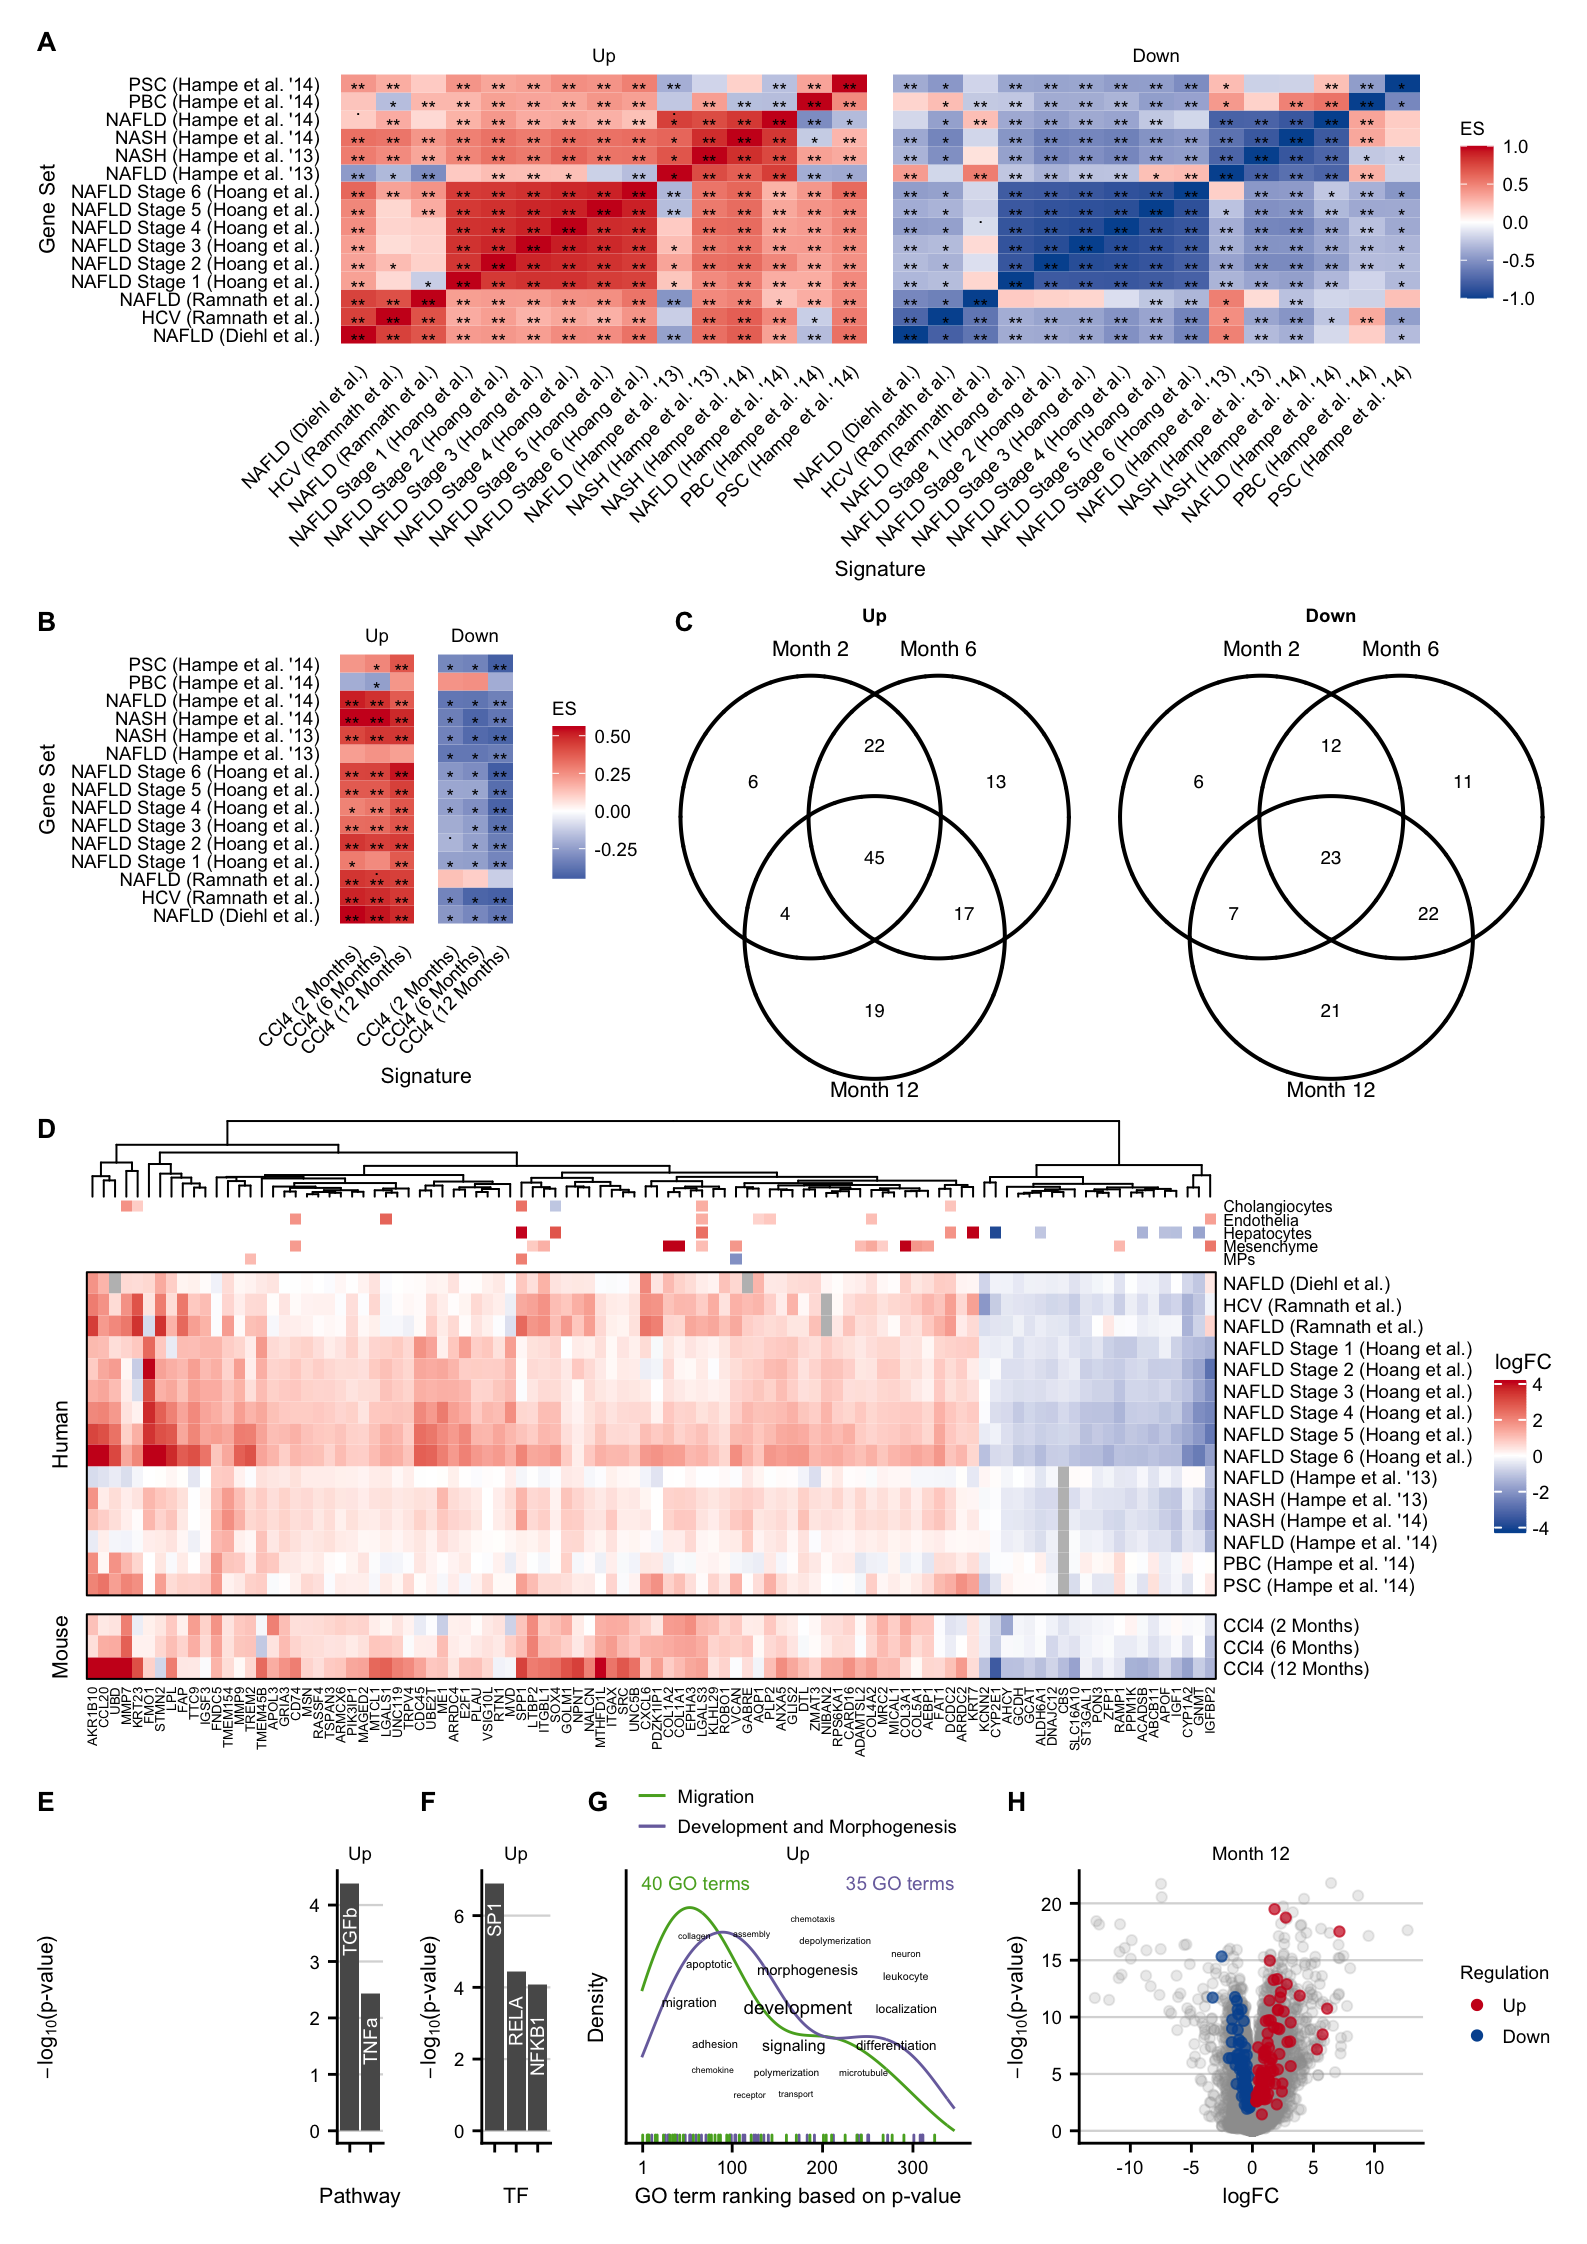
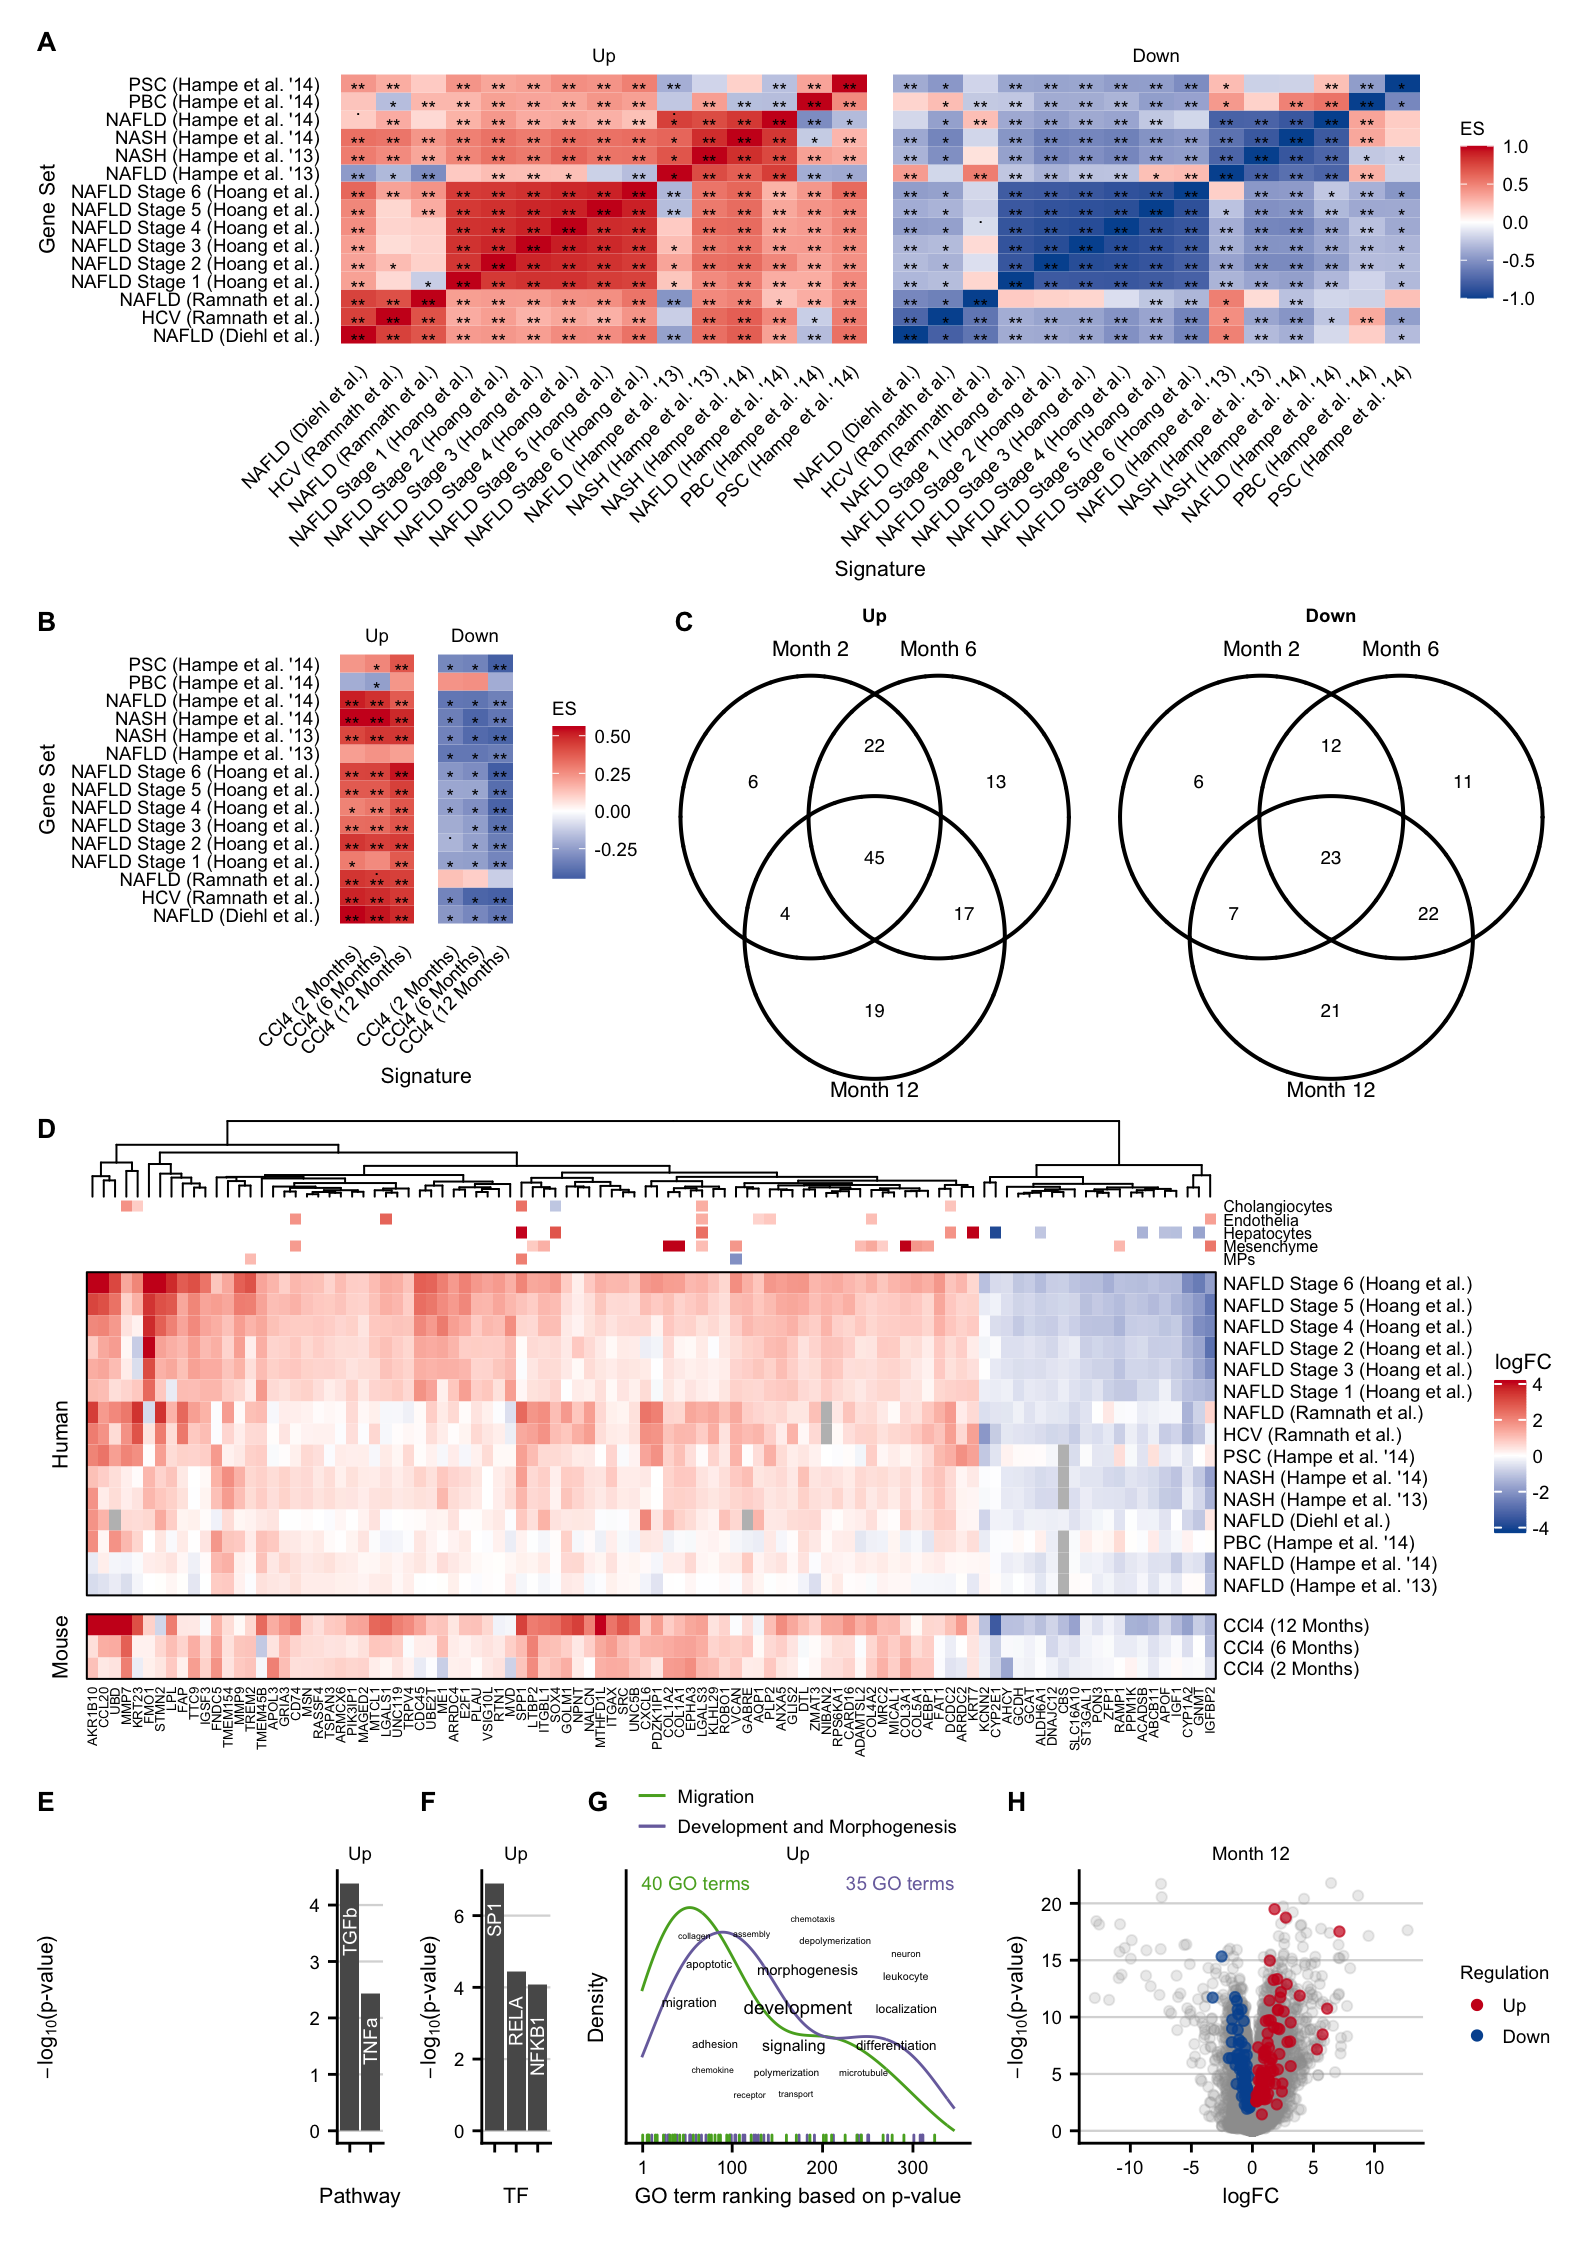
Build site.

Changed region(s): [[0.0309, 0.5615, 0.9263, 0.7487]]

diff --git a/docs/plot-mouse-vs-human.html b/docs/plot-mouse-vs-human.html
@@ -544,7 +544,7 @@ div.tocify {
 <div class="tab-content">
 <div id="summary" class="tab-pane fade in active">
 <p>
-<strong>Last updated:</strong> 2020-12-30
+<strong>Last updated:</strong> 2021-01-05
 </p>
 <p>
 <strong>Checks:</strong> <span class="glyphicon glyphicon-ok text-success" aria-hidden="true"></span> 7 <span class="glyphicon glyphicon-exclamation-sign text-danger" aria-hidden="true"></span> 0
@@ -635,16 +635,16 @@ This reproducible <a href="http://rmarkdown.rstudio.com">R Markdown</a> analysis
 <div class="panel panel-default">
 <div class="panel-heading">
 <p class="panel-title">
-<a data-toggle="collapse" data-parent="#workflowr-checks" href="#strongRepositoryversionstrongahrefhttpsgithubcomsaezlabmetalivertree26cc806777cddc295cc375b282b70905fde421e5targetblank26cc806a"> <span class="glyphicon glyphicon-ok text-success" aria-hidden="true"></span> <strong>Repository version:</strong> <a href="https://github.com/saezlab/meta-liver/tree/26cc806777cddc295cc375b282b70905fde421e5" target="_blank">26cc806</a> </a>
+<a data-toggle="collapse" data-parent="#workflowr-checks" href="#strongRepositoryversionstrongahrefhttpsgithubcomsaezlabmetalivertree1b1ab6ae04b8dd083362fd11be8236c9c0266c31targetblank1b1ab6aa"> <span class="glyphicon glyphicon-ok text-success" aria-hidden="true"></span> <strong>Repository version:</strong> <a href="https://github.com/saezlab/meta-liver/tree/1b1ab6ae04b8dd083362fd11be8236c9c0266c31" target="_blank">1b1ab6a</a> </a>
 </p>
 </div>
[2 lines of base64/hex data omitted]
 <div class="panel-body">
 <p>
 Great! You are using Git for version control. Tracking code development and connecting the code version to the results is critical for reproducibility.
 </p>
 <p>
-The results in this page were generated with repository version <a href="https://github.com/saezlab/meta-liver/tree/26cc806777cddc295cc375b282b70905fde421e5" target="_blank">26cc806</a>. See the <em>Past versions</em> tab to see a history of the changes made to the R Markdown and HTML files.
+The results in this page were generated with repository version <a href="https://github.com/saezlab/meta-liver/tree/1b1ab6ae04b8dd083362fd11be8236c9c0266c31" target="_blank">1b1ab6a</a>. See the <em>Past versions</em> tab to see a history of the changes made to the R Markdown and HTML files.
 </p>
 <p>
 Note that you need to be careful to ensure that all relevant files for the analysis have been committed to Git prior to generating the results (you can use <code>wflow_publish</code> or <code>wflow_git_commit</code>). workflowr only checks the R Markdown file, but you know if there are other scripts or data files that it depends on. Below is the status of the Git repository when the results were generated:
@@ -679,6 +679,7 @@ Ignored files:
     Ignored:    analysis/plot-teufel-integration_cache/
     Ignored:    code/.DS_Store
     Ignored:    code/README.html
+    Ignored:    code/meta-mouse-vs-human/.DS_Store
     Ignored:    data/.DS_Store
     Ignored:    data/README.html
     Ignored:    data/annotation/
@@ -688,6 +689,7 @@ Ignored files:
     Ignored:    data/human-hoang-nafld/
     Ignored:    data/human-ramnath-fibrosis/
     Ignored:    data/meta-chronic-vs-acute/
+    Ignored:    data/meta-mouse-vs-human/
     Ignored:    data/mouse-acute-apap/
     Ignored:    data/mouse-acute-bdl/
     Ignored:    data/mouse-acute-ccl4/
@@ -717,9 +719,13 @@ Ignored files:
     Ignored:    output/mouse-chronic-ccl4/
     Ignored:    renv/library/
     Ignored:    renv/staging/
+    Ignored:    tables/
 
 Untracked files:
-    Untracked:  data/meta-mouse-vs-human/
+    Untracked:  analysis/save-tables.Rmd
+
+Unstaged changes:
+    Modified:   analysis/plot-precision-recall.Rmd
 
 </code></pre>
 <p>
@@ -758,6 +764,40 @@ Message
 </tr>
 </thead>
 <tbody>
+<tr>
+<td>
+Rmd
+</td>
+<td>
+<a href="https://github.com/saezlab/meta-liver/blob/1b1ab6ae04b8dd083362fd11be8236c9c0266c31/analysis/plot-mouse-vs-human.Rmd" target="_blank">1b1ab6a</a>
+</td>
+<td>
+christianholland
+</td>
+<td>
+2021-01-05
+</td>
+<td>
+cluster contrasts
+</td>
+</tr>
+<tr>
+<td>
+html
+</td>
+<td>
+<a href="https://rawcdn.githack.com/saezlab/meta-liver/45c5848406234b136005dc618f9be05ba3fd97ec/docs/plot-mouse-vs-human.html" target="_blank">45c5848</a>
+</td>
+<td>
+christianholland
+</td>
+<td>
+2020-12-30
+</td>
+<td>
+Build site.
+</td>
+</tr>
 <tr>
 <td>
 Rmd
@@ -1377,7 +1417,7 @@ ha &lt;- HeatmapAnnotation(
 h_hmap &lt;- Heatmap(
   t(as.matrix(m)),
   col = col_fun,
-  cluster_rows = F,
+  cluster_rows = T,
   cluster_columns = T,
   show_row_dend = F,
   show_column_dend = T,
@@ -1421,6 +1461,17 @@ Date
 </tr>
 </thead>
 <tbody>
+<tr>
+<td>
+<a href="https://github.com/saezlab/meta-liver/blob/45c5848406234b136005dc618f9be05ba3fd97ec/docs/figure/plot-mouse-vs-human.Rmd/top-human-mouse-consistent-genes-1.png" target="_blank">45c5848</a>
+</td>
+<td>
+christianholland
+</td>
+<td>
+2020-12-30
+</td>
+</tr>
 <tr>
 <td>
 <a href="https://github.com/saezlab/meta-liver/blob/b43c2467a94d8a7da73e6f548d9e4cf1afe01790/docs/figure/plot-mouse-vs-human.Rmd/top-human-mouse-consistent-genes-1.png" target="_blank">b43c246</a>
@@ -1884,6 +1935,17 @@ Date
 <tbody>
 <tr>
 <td>
+<a href="https://github.com/saezlab/meta-liver/blob/45c5848406234b136005dc618f9be05ba3fd97ec/docs/figure/plot-mouse-vs-human.Rmd/fig-4-1.png" target="_blank">45c5848</a>
+</td>
+<td>
+christianholland
+</td>
+<td>
+2020-12-30
+</td>
+</tr>
+<tr>
+<td>
 <a href="https://github.com/saezlab/meta-liver/blob/b43c2467a94d8a7da73e6f548d9e4cf1afe01790/docs/figure/plot-mouse-vs-human.Rmd/fig-4-1.png" target="_blank">b43c246</a>
 </td>
 <td>
@@ -2030,7 +2092,7 @@ ggsave(here(&quot;figures/Supplementary Figure 4.2.pdf&quot;), sfig4_2,
 ggsave(here(&quot;figures/Supplementary Figure 4.2.png&quot;), sfig4_2,
   width = 21, height = 10, units = c(&quot;cm&quot;)
 )</code></pre>
-<p>Time spend to execute this analysis: 00:31 minutes.</p>
+<p>Time spend to execute this analysis: 00:32 minutes.</p>
 <br>
 <p>
 <button type="button" class="btn btn-default btn-workflowr btn-workflowr-sessioninfo" data-toggle="collapse" data-target="#workflowr-sessioninfo" style="display: block;">

diff --git a/docs/index.html b/docs/index.html
@@ -487,16 +487,16 @@ This reproducible <a href="http://rmarkdown.rstudio.com">R Markdown</a> analysis
 <div class="panel panel-default">
 <div class="panel-heading">
 <p class="panel-title">
-<a data-toggle="collapse" data-parent="#workflowr-checks" href="#strongRepositoryversionstrongahrefhttpsgithubcomsaezlabmetalivertree41a051d9ffab71cfaa1d74556651d318ac865a0etargetblank41a051da"> <span class="glyphicon glyphicon-ok text-success" aria-hidden="true"></span> <strong>Repository version:</strong> <a href="https://github.com/saezlab/meta-liver/tree/41a051d9ffab71cfaa1d74556651d318ac865a0e" target="_blank">41a051d</a> </a>
+<a data-toggle="collapse" data-parent="#workflowr-checks" href="#strongRepositoryversionstrongahrefhttpsgithubcomsaezlabmetalivertree1b1ab6ae04b8dd083362fd11be8236c9c0266c31targetblank1b1ab6aa"> <span class="glyphicon glyphicon-ok text-success" aria-hidden="true"></span> <strong>Repository version:</strong> <a href="https://github.com/saezlab/meta-liver/tree/1b1ab6ae04b8dd083362fd11be8236c9c0266c31" target="_blank">1b1ab6a</a> </a>
 </p>
 </div>
[2 lines of base64/hex data omitted]
 <div class="panel-body">
 <p>
 Great! You are using Git for version control. Tracking code development and connecting the code version to the results is critical for reproducibility.
 </p>
 <p>
-The results in this page were generated with repository version <a href="https://github.com/saezlab/meta-liver/tree/41a051d9ffab71cfaa1d74556651d318ac865a0e" target="_blank">41a051d</a>. See the <em>Past versions</em> tab to see a history of the changes made to the R Markdown and HTML files.
+The results in this page were generated with repository version <a href="https://github.com/saezlab/meta-liver/tree/1b1ab6ae04b8dd083362fd11be8236c9c0266c31" target="_blank">1b1ab6a</a>. See the <em>Past versions</em> tab to see a history of the changes made to the R Markdown and HTML files.
 </p>
 <p>
 Note that you need to be careful to ensure that all relevant files for the analysis have been committed to Git prior to generating the results (you can use <code>wflow_publish</code> or <code>wflow_git_commit</code>). workflowr only checks the R Markdown file, but you know if there are other scripts or data files that it depends on. Below is the status of the Git repository when the results were generated:
@@ -617,6 +617,23 @@ Message
 </tr>
 </thead>
 <tbody>
+<tr>
+<td>
+html
+</td>
+<td>
+<a href="https://rawcdn.githack.com/saezlab/meta-liver/ce21ef09a7d59171f6cb1452fabf5a7f64363a73/docs/index.html" target="_blank">ce21ef0</a>
+</td>
+<td>
+christianholland
+</td>
+<td>
+2021-01-05
+</td>
+<td>
+Build site.
+</td>
+</tr>
 <tr>
 <td>
 html
